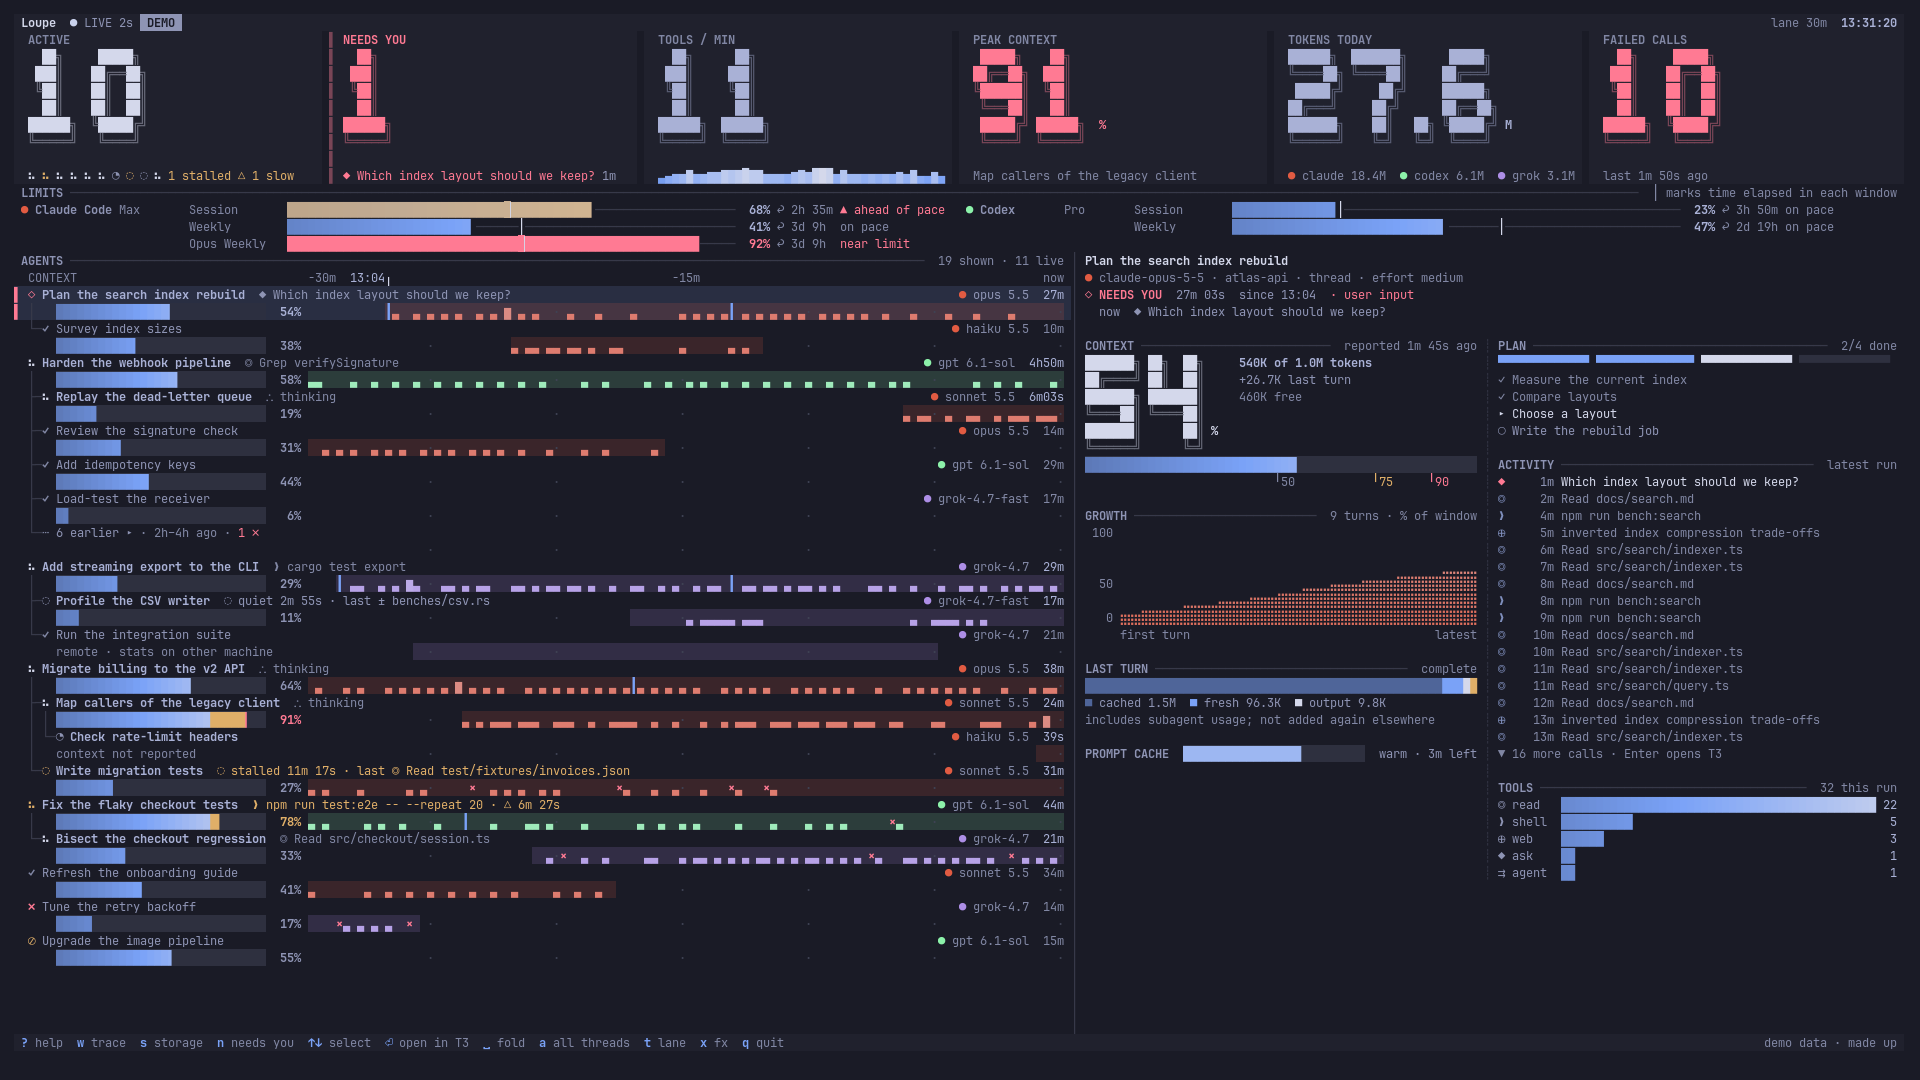
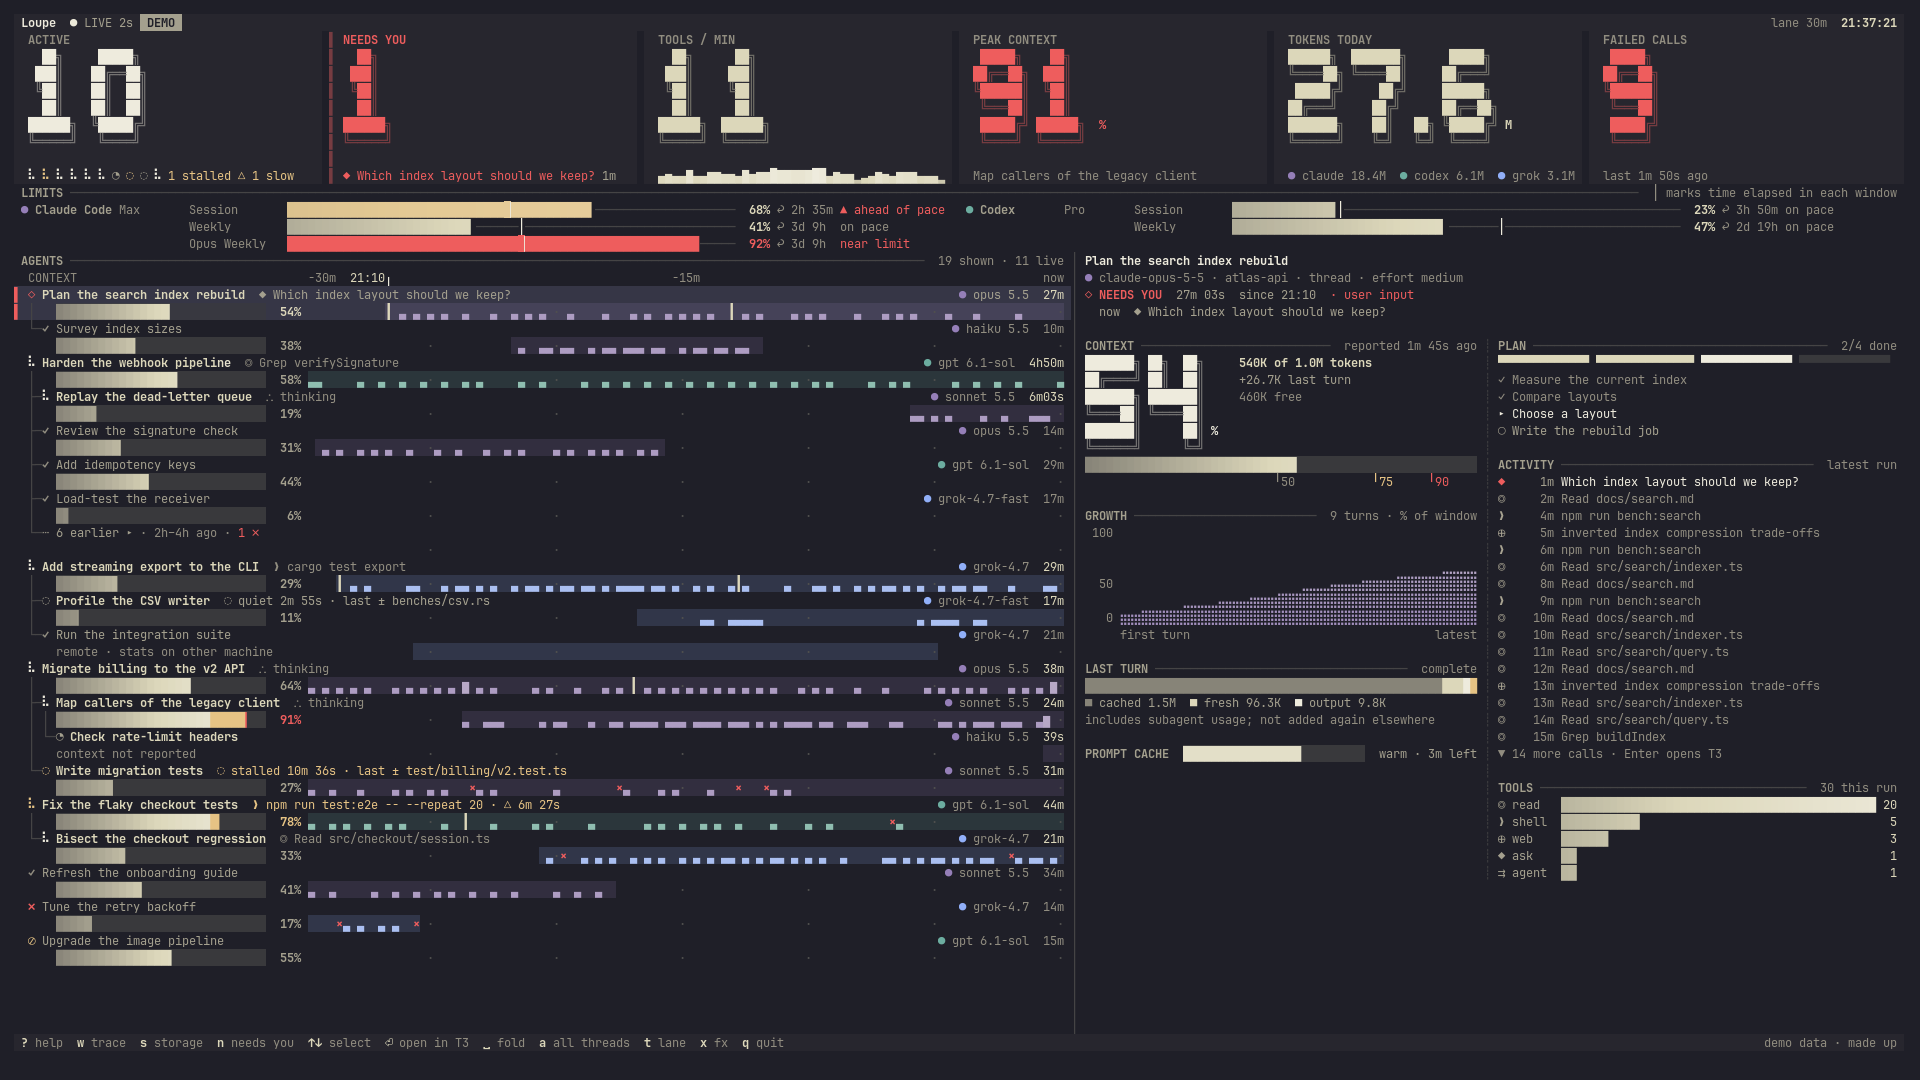
Refresh screenshots in Kanagawa and add feature views

diff --git a/docs/features.md b/docs/features.md
@@ -79,6 +79,8 @@ The short list is in the [README](../README.md). This is the long one.
   line above the footer says how much is left. It identifies temporary space
   backed by memory. The demo uses example data.
 
+![Storage: worktree, build and scratch disk use by project, on demo data](storage.png)
+
 ## Insights
 
 Press `i` on the dashboard to see how this week's agent time was spent.
@@ -91,6 +93,8 @@ The report stays in place while you read, even as Live keeps updating.
 Press `r` for fresh numbers or leave and reopen Insights. In `--demo`,
 Recap and Tools each use a separate made-up dataset. Their totals can differ
 from each other and from the sample agents on Live.
+
+![Insights Recap: last week across every thread, on demo data](insights-recap.png)
 
 ## Recap
 
@@ -205,6 +209,8 @@ Sunday, and what failed. T3 shows tool calls one at a time, inside a
 conversation. This is every thread at once. `loupe --tools --demo` shows a
 made-up week.
 
+![Insights Tools: calls, durations, programs and exit codes, on demo data](insights-tools.png)
+
 - **Calls, call time and failed,** as three tiles. A call is a command, a file
   change, a search or a named tool; an agent handing work to another isn't
   one. Calls overlap, so call time is more than the clock time, and the notes
@@ -276,6 +282,8 @@ work to, all on one time axis, live. It answers "why is this taking so long?"
 while it's happening, and "where did the time go?" once it's done.
 `loupe --trace` prints the latest task the same way, and
 `loupe --trace --demo` shows a made-up one.
+
+![Task Trace: every step, delegate and wait on one time axis, on demo data](trace.png)
 
 - **Where the time went,** split the way Recap splits a week: tools, the model,
   waiting on you, and the stretches when no run was open because a delegate

diff --git a/README.md b/README.md
@@ -22,7 +22,7 @@ bar.
 > Unofficial. Not made by or affiliated with the T3 Code team or Omarchy. It
 > reads T3's local database, which can change in any T3 update.
 
-![The Loupe dashboard, running on made-up demo data](docs/dashboard.png)
+![The Loupe dashboard in Kanagawa, running on made-up demo data](docs/dashboard.png)
 
 ## Where it runs
 
@@ -106,7 +106,17 @@ removing are all in [docs/install.md](docs/install.md).
 - **A bar widget** on Omarchy: a count in the bar, and a card of who's doing
   what when you click it.
 
-![The bar widget's card on stock Omarchy, with demo data](docs/bar-widget.png)
+![The Omarchy bar widget card, with demo data](docs/bar-widget.png)
+
+### More views
+
+![Insights Recap: a week of agent hours, models, handoffs and output, on demo data](docs/insights-recap.png)
+
+![Insights Tools: calls, durations, programs and exit codes, on demo data](docs/insights-tools.png)
+
+![Task Trace: every step, delegate and wait on one time axis, on demo data](docs/trace.png)
+
+![Storage: worktree, build and scratch disk use by project, on demo data](docs/storage.png)
 
 It's one small Rust program. It only reads T3's data, never writes it, and
 makes no network connections.
